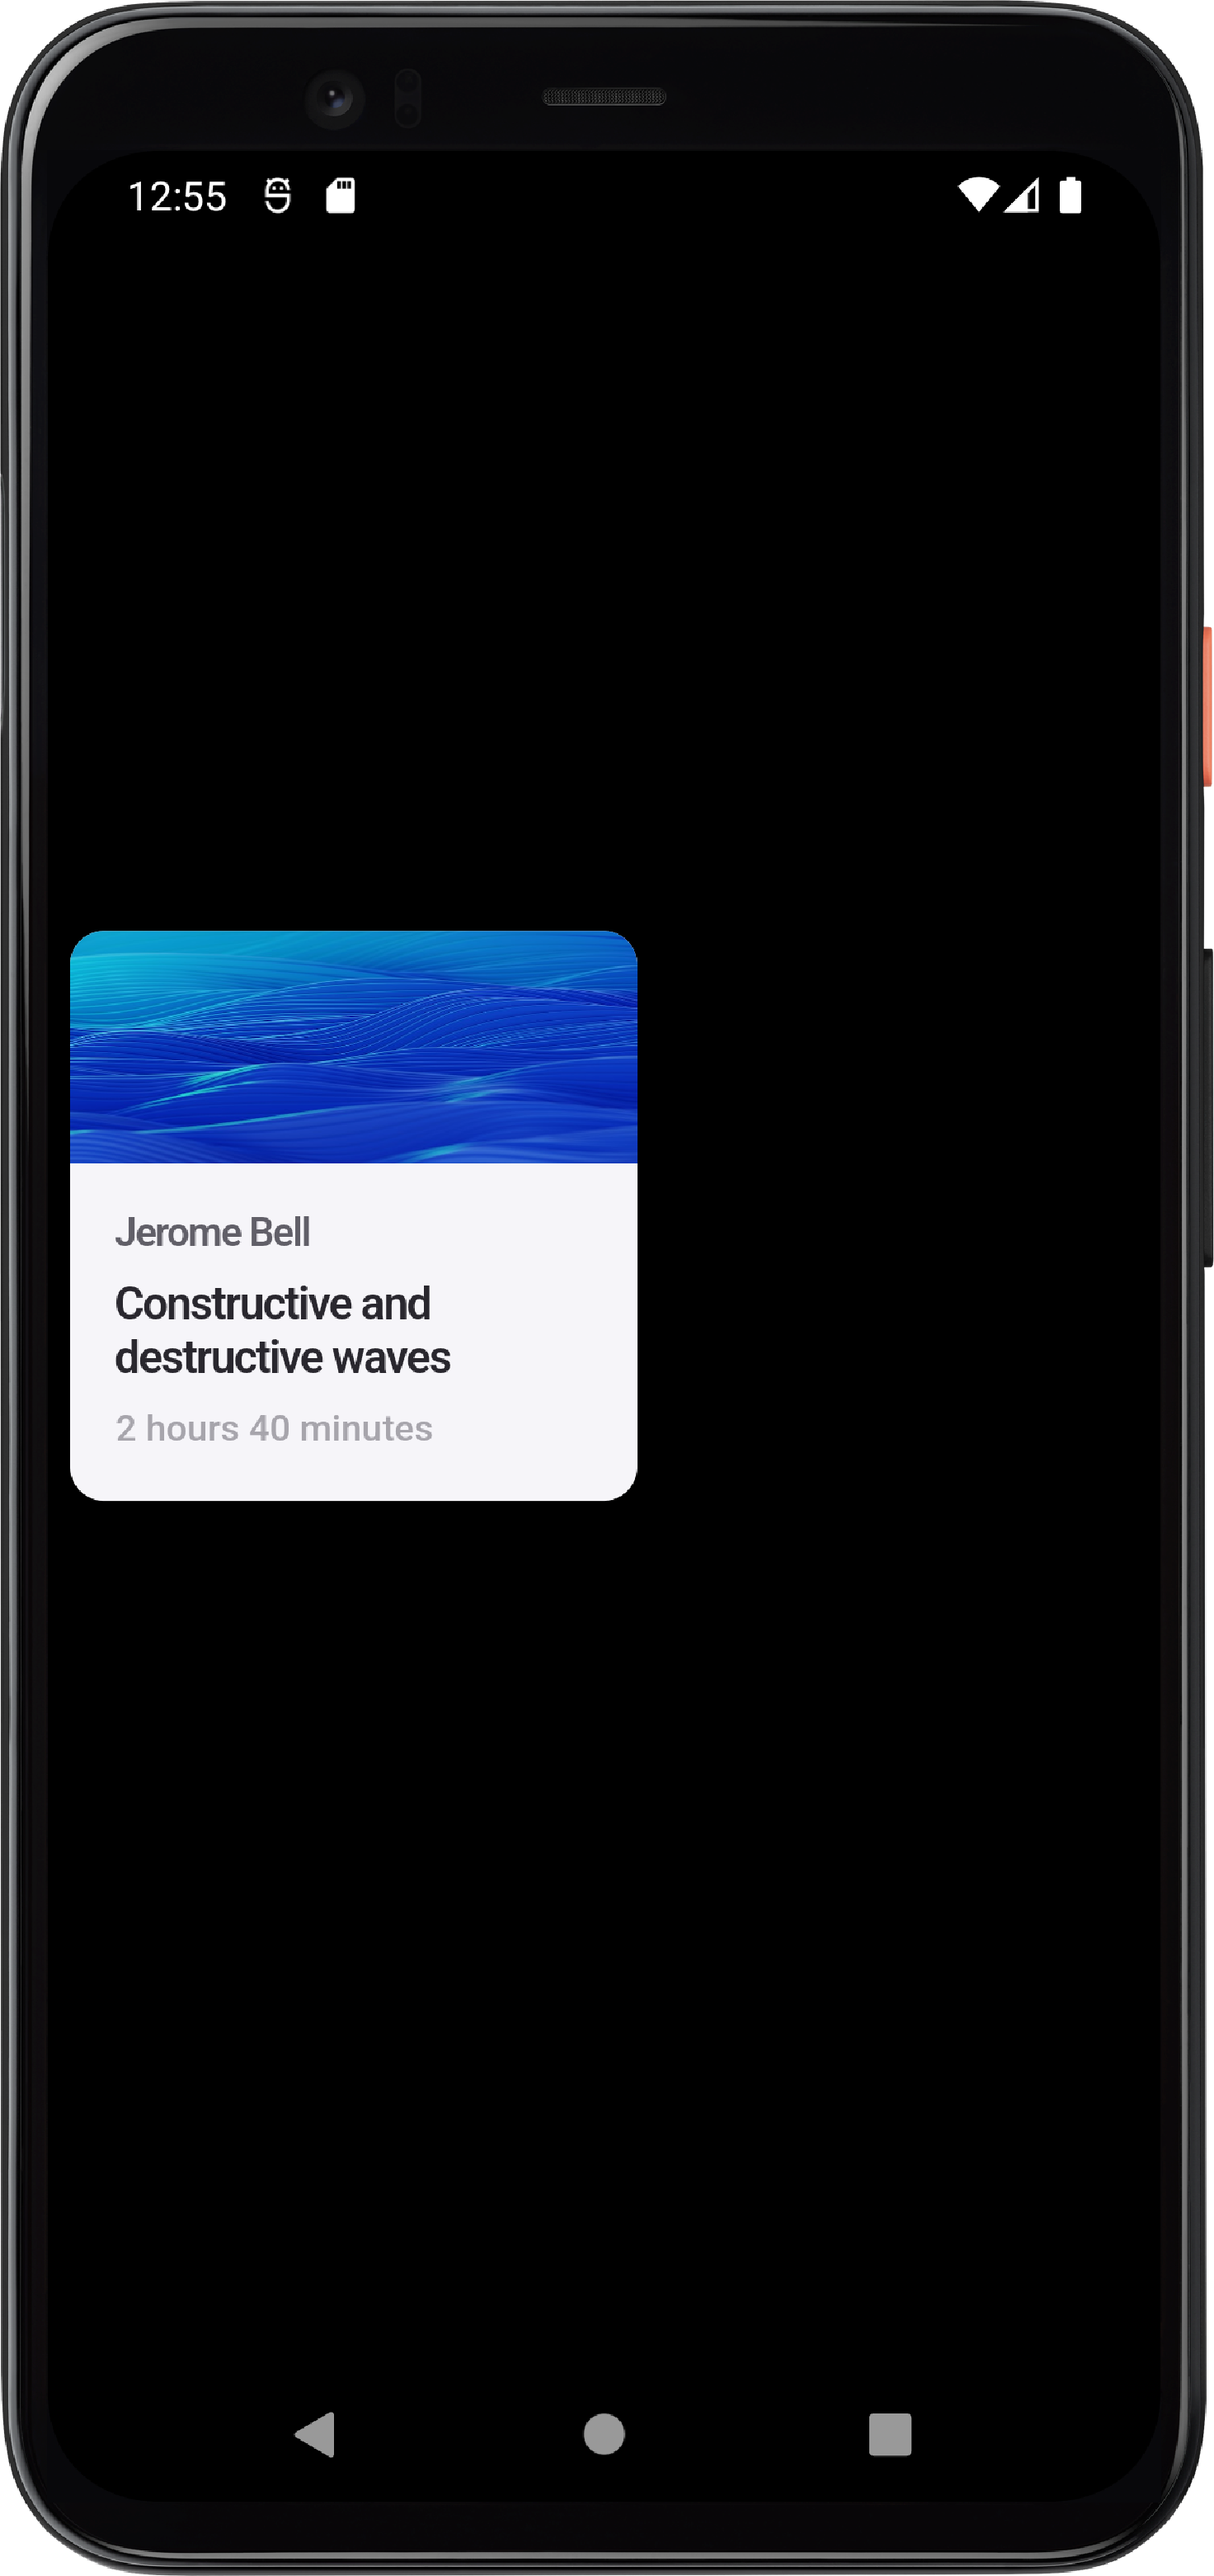
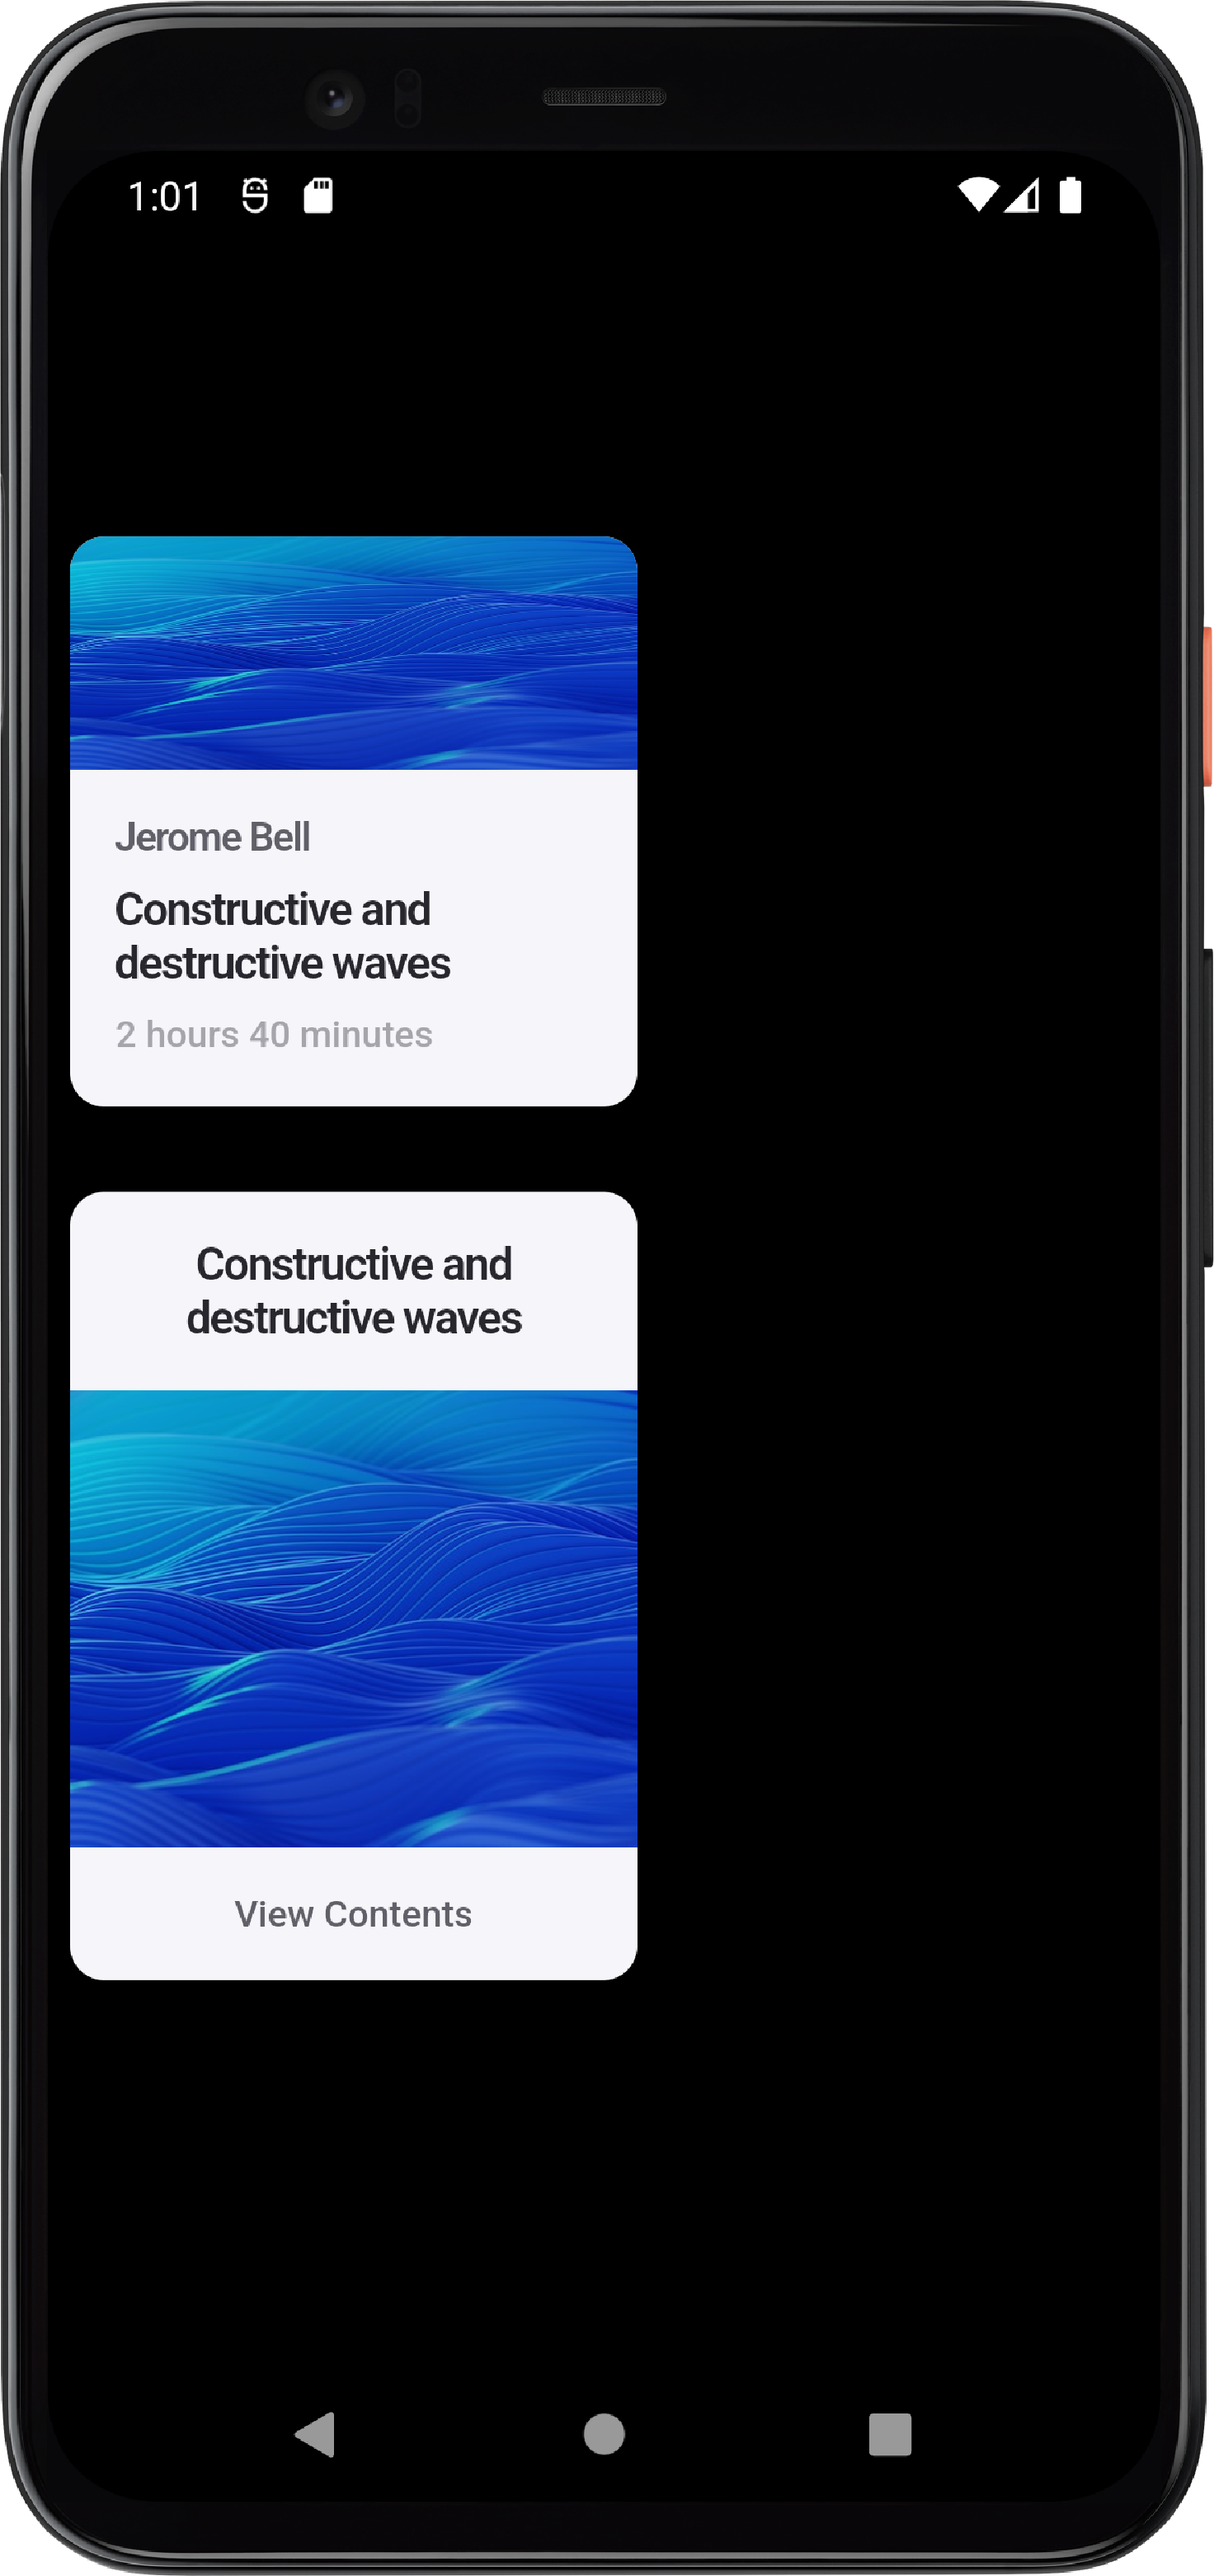
add Card 31

Changed region(s): [[0.0312, 0.1864, 0.5312, 0.7767], [0.125, 0.0621, 0.3125, 0.0932]]

diff --git a/lib/Cards/card_31.dart b/lib/Cards/card_31.dart
@@ -1,0 +1,54 @@
+import 'package:flutter/material.dart';
+class Card31 extends StatelessWidget {
+  const Card31({Key? key}) : super(key: key);
+
+  @override
+  Widget build(BuildContext context) {
+    return Container(
+      height: 278,
+      width: 200,
+      decoration: BoxDecoration(color: const Color(0xFFF6F5F9),
+          borderRadius: BorderRadius.circular(12)
+      ),
+      child: Column(
+        children: [
+          Container(
+            padding: const EdgeInsets.all(16),
+            child: const Text(
+              'Constructive and destructive waves',
+              textAlign: TextAlign.center,
+              style: TextStyle(
+                color: Color(0xFF29272E),
+                fontSize: 16,
+                fontFamily: 'Inter',
+                fontWeight: FontWeight.w600,
+                height: 0,
+                letterSpacing: -0.64,
+              ),
+            ),
+          ),
+          Expanded(child:  Container(
+            decoration: const BoxDecoration(
+              image: DecorationImage(image: NetworkImage("https://s3-alpha-sig.figma.com/img/234b/2a75/407c63c81bbefe9dce7316920415ce51?Expires=1704067200&Signature=Tz8~chAPIx1vszCFzqWtOb8vWpk~gACjJi-KQd-nSOZIsSc--EfxT6av7UR849GzYT77XjPv72M1pgo8bgsK9AOro1LUMnqI7MraqlZ4q-X8FE~QUU67fkQAjZu1ep5uYkleMs42dgQipwVXvB~agOqzQ3d3QsYCDOIkevwD~mylZ1HRkIcaTt7NS~Xk-cx3w5t23pMmsfkRMZI498bVouZc9B33u~9X3-r9v8CIENBOwGD79If8YyrJJexFNqIOls6BFdmrhtklJd-jftkwOkUEws-ItsF10gfb-kr4qhXWdP-pkrKxKDqci6TESs~sl6oB7mbCM8hXPASBDZKwTA__&Key-Pair-Id=APKAQ4GOSFWCVNEHN3O4"), fit: BoxFit.fill
+                , ),
+            ),
+          ),),
+          Container(
+            padding: const EdgeInsets.all(16),
+            child: const Text(
+              'View Contents',
+              textAlign: TextAlign.center,
+              style: TextStyle(
+                color: Color(0xFF615F68),
+                fontSize: 13,
+                fontFamily: 'Inter',
+                fontWeight: FontWeight.w500,
+                height: 0,
+              ),
+            ),
+          )
+        ],
+      ),
+    );
+  }
+}

diff --git a/lib/Screens/view_12.dart b/lib/Screens/view_12.dart
@@ -1,5 +1,6 @@
 import 'package:flutter/material.dart';
 import 'package:flutter_ui_card_collections/Cards/card_30.dart';
+import 'package:flutter_ui_card_collections/Cards/card_31.dart';
 import 'package:gap/gap.dart';
 class View12 extends StatelessWidget {
   const View12({Key? key}) : super(key: key);
@@ -15,7 +16,7 @@ class View12 extends StatelessWidget {
           children: [
             Card30(),
             Gap(30),
-
+            Card31()
 
 
 
